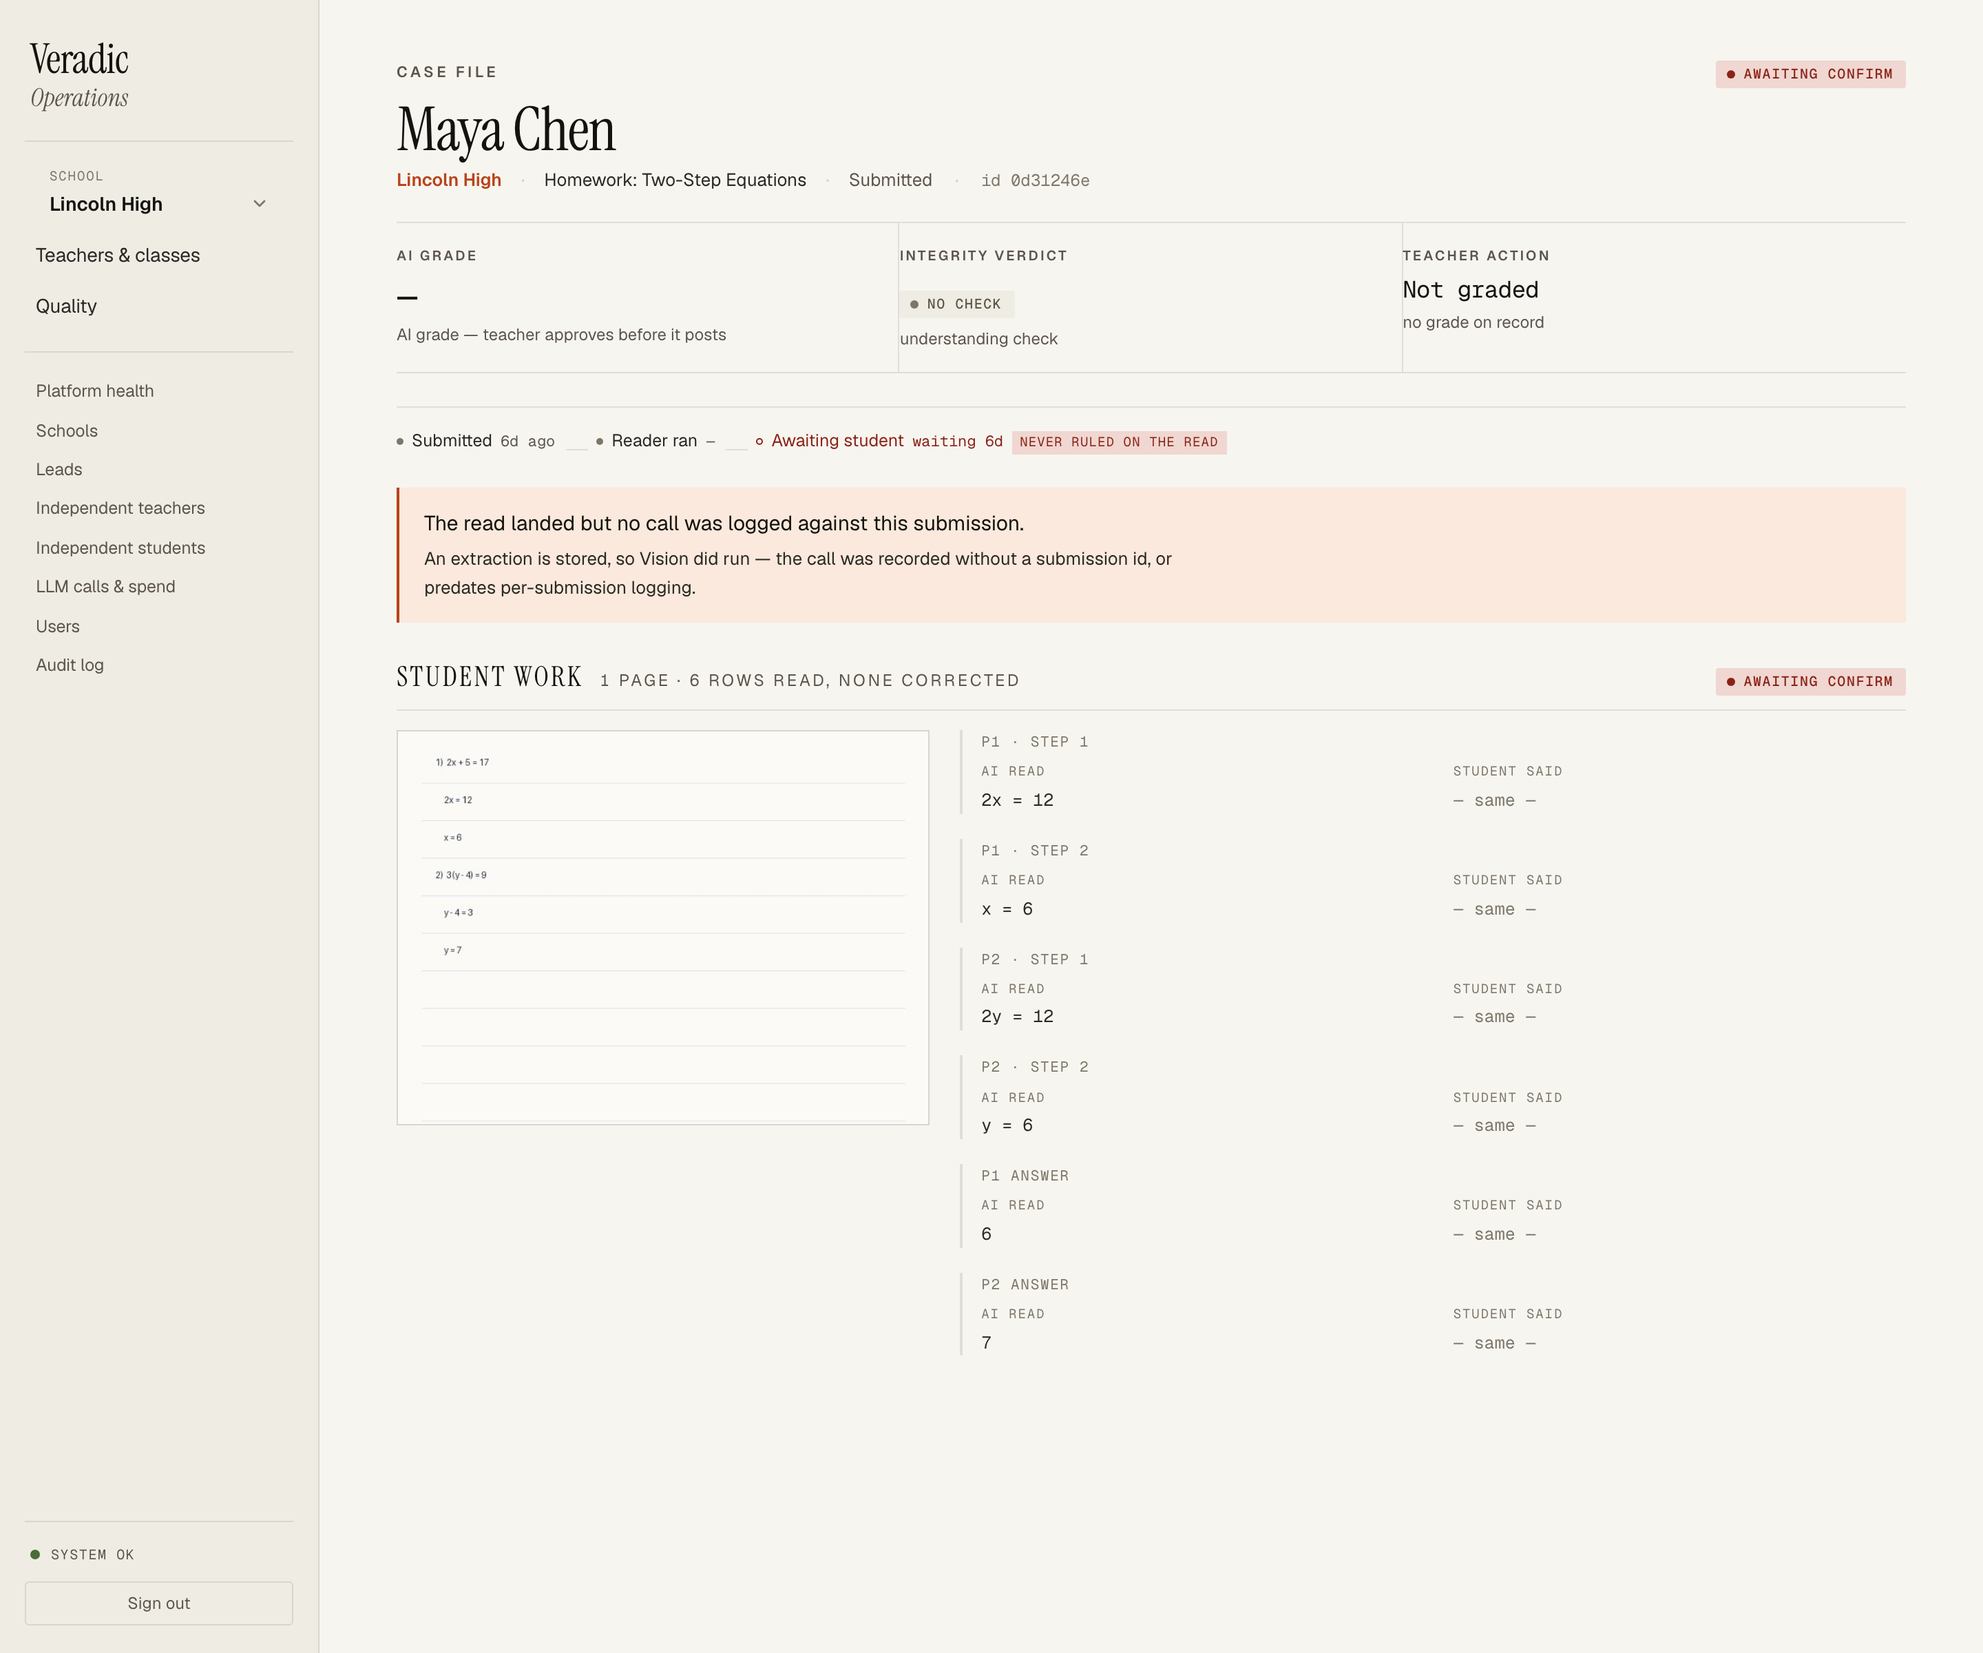
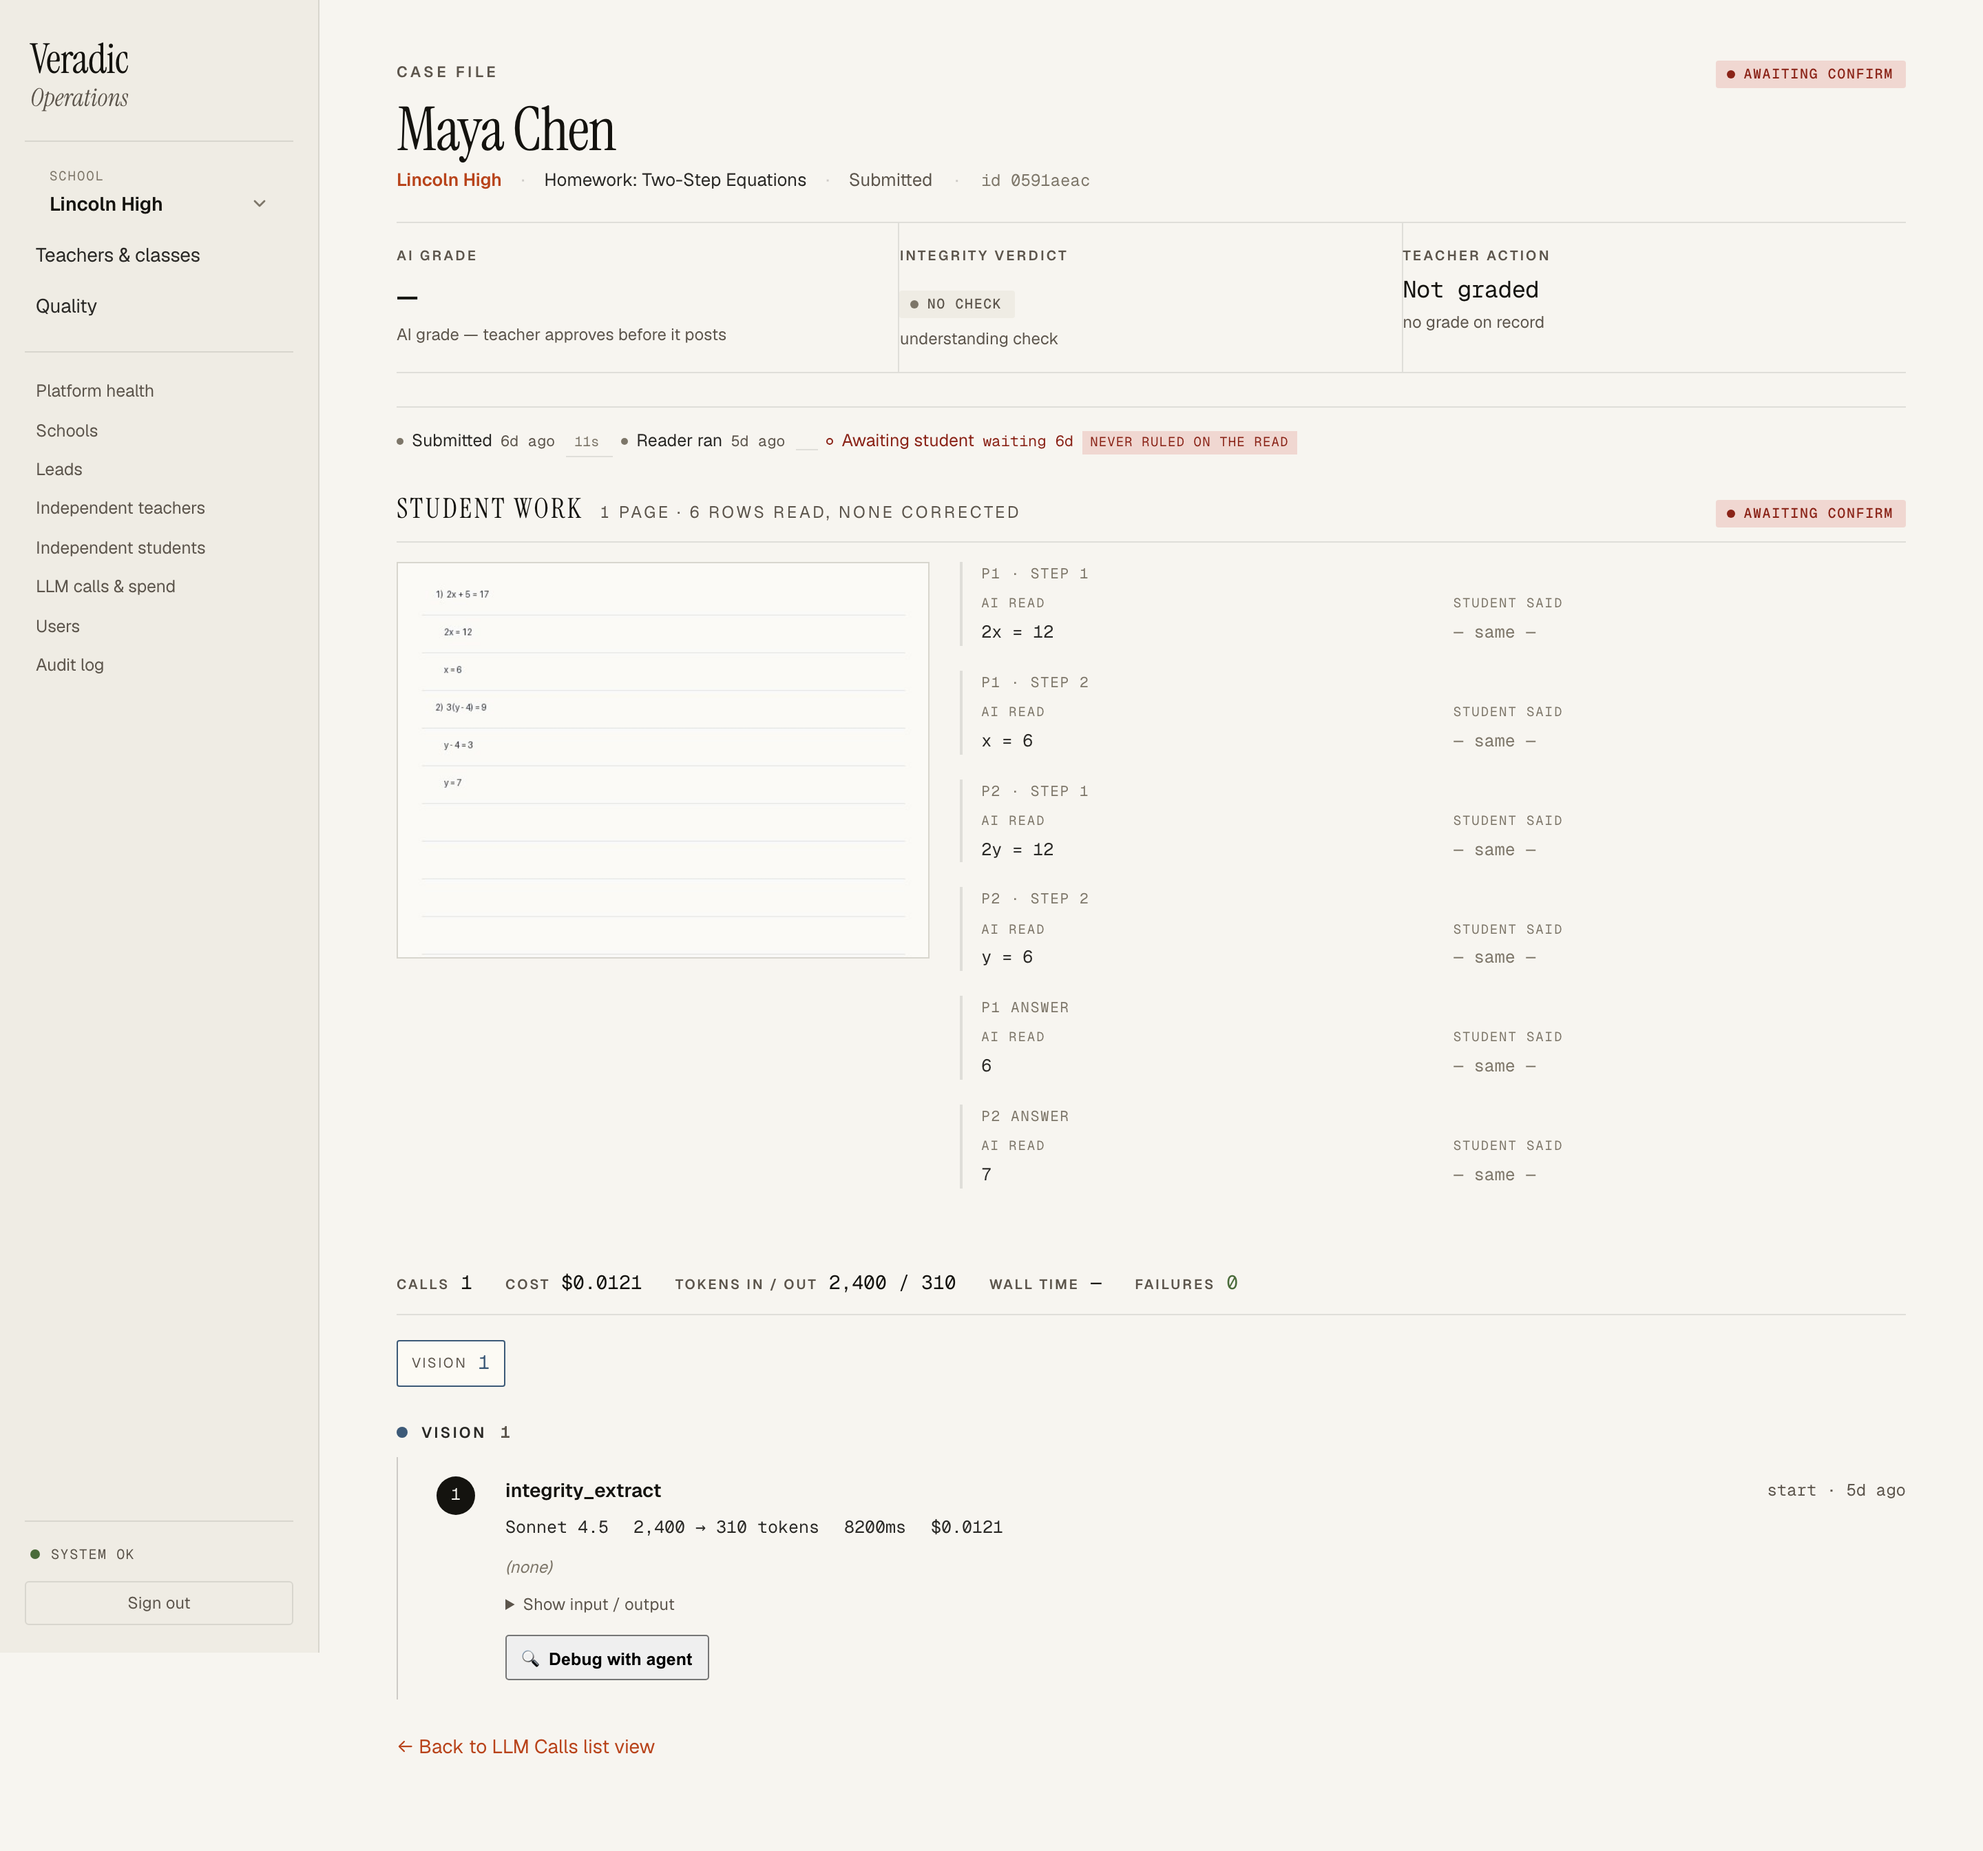
fix: the header verdict, and the fixture that hid it for five rounds
The green PASS was still reachable on the exact submission this feature
exists to surface, and the reason is worth writing down.

A stored extraction IMPLIES a logged call: `extract_student_work` logs
`integrity_extract` with the submission_id, and its return value is
what the pipeline persists. So every real `awaiting_confirm` submission
— read landed, student never ruled — has calls, `failures === 0`, and
rendered a green PASS as the loudest element on the page while the
stage pill 300px below read AWAITING CONFIRM in red.

Gating the stage pill on `!hasCalls` last round did not fix that. It
narrowed it to a state production cannot reach, and the only reason the
screenshots looked right is that the fixture WAS that unreachable
state: `stuck` was seeded with an extraction and no call. Five rounds
of visual verification were photographing something the product cannot
produce.

Two changes. The header pill now answers "where is this submission?"
rather than "did the calls succeed?" — the stage wins whenever the
record is loaded, and the run verdict is demoted to a pill beside it
that renders only when it carries information (a failure always does; a
clean run only when there is no stage). Failures stay visible in three
places: that pill, the economics strip, and the expanded failed rows.

And every seeded submission carrying an extraction now gets the call
that produced it, so the fixture models a state the pipeline can
[…]

diff --git a/dashboard/src/pages/SubmissionTrace.tsx b/dashboard/src/pages/SubmissionTrace.tsx
@@ -470,20 +470,28 @@ function CaseHeader({
     ? "Every logged call in this run succeeded"
     : `${failures} call${failures === 1 ? "" : "s"} in this run failed`;
 
-  // The pill used to read PASS whenever nothing failed — including when
-  // nothing ran. On a submission stuck six days with zero calls that is
-  // the most prominent thing on the page and it says the opposite of
-  // the truth: "no calls failed" is not "this submission is fine". With
-  // no calls to judge, show where the submission actually stopped.
+  // The header pill answers "where is this submission?", NOT "did the
+  // model calls succeed?".
   //
-  // And when there are no calls AND no record loaded, show NOTHING. An
-  // earlier guard fell through to PASS in that case, so the heavy
-  // submission fetch being slow painted a green PASS over a stalled
-  // submission for the length of the round trip — and painted it
-  // permanently if that fetch failed, directly above a body reading
-  // "the submission record couldn't be loaded". A verdict is a claim;
-  // with neither the calls nor the record there is nothing to claim.
-  const stagePill = !hasCalls && work ? STAGE_META[work.stage] : null;
+  // Those are different questions and this pill kept answering the
+  // wrong one. "No call failed" is not "this submission is fine": a
+  // submission stuck six days at read-landed-never-confirmed has a
+  // perfectly healthy Vision call behind it, so a run verdict renders
+  // a green PASS as the loudest element on the page while the stage
+  // pill lower down reads AWAITING CONFIRM in red.
+  //
+  // Gating the stage on `!hasCalls` did not fix that, it just moved it:
+  // a stored extraction IMPLIES a logged call, because
+  // `extract_student_work` logs `integrity_extract` with this
+  // submission_id and that call is what produced the read. So every
+  // real awaiting_confirm submission has calls, and only a fixture that
+  // seeds an extraction without one — which production cannot reach —
+  // ever took the stage branch.
+  //
+  // So: the stage wins whenever the record is loaded. Call failures are
+  // not hidden — they get their own pill beside it, and the economics
+  // strip and the timeline both surface them.
+  const stagePill = work ? STAGE_META[work.stage] : null;
 
   return (
     <div className="case-file">
@@ -524,19 +532,28 @@ function CaseHeader({
             )}
           </div>
         </div>
-        {hasCalls ? (
-          <StatusPill
-            tone={runPassed ? "ok" : "danger"}
-            label={runPassed ? "PASS" : "FAILED"}
-            title={runTitle}
-          />
-        ) : stagePill ? (
-          <StatusPill
-            tone={stagePill.tone}
-            label={stagePill.label}
-            title={stagePill.blurb}
-          />
-        ) : null}
+        <div className="case-head-pills">
+          {stagePill && (
+            <StatusPill
+              tone={stagePill.tone}
+              label={stagePill.label}
+              title={stagePill.blurb}
+            />
+          )}
+          {/* The run verdict, demoted beside the stage. Only rendered
+              when it carries information: a failure always does, and a
+              clean run does only when there is no stage to show. */}
+          {hasCalls && !runPassed && (
+            <StatusPill
+              tone="danger"
+              label={`${failures} CALL${failures === 1 ? "" : "S"} FAILED`}
+              title={runTitle}
+            />
+          )}
+          {hasCalls && runPassed && !stagePill && (
+            <StatusPill tone="ok" label="PASS" title={runTitle} />
+          )}
+        </div>
       </div>
 
       {summary && <DecisionStrip summary={summary} />}

diff --git a/dashboard/src/index.css b/dashboard/src/index.css
@@ -595,6 +595,16 @@ h3 {
 
 .case-file { margin-bottom: 24px; }
 
+/* Stage first, then the run verdict beside it when it adds something.
+   Wraps rather than squeezing the header on a narrow viewport. */
+.case-head-pills {
+  display: flex;
+  flex-wrap: wrap;
+  justify-content: flex-end;
+  gap: 6px;
+  flex: none;
+}
+
 .case-head {
   display: flex;
   justify-content: space-between;

diff --git a/scripts/seed_student_case_file.py b/scripts/seed_student_case_file.py
@@ -214,7 +214,7 @@ async def seed() -> dict[str, str]:
             extraction_confirmed_at=NOW - timedelta(days=3),
         )
         # Student rejected the read outright — teacher grades by hand.
-        sub(
+        flagged = sub(
             await hw("Word Problems"), 4,
             extraction=read_for(),
             extraction_flagged_at=NOW - timedelta(days=4),
@@ -242,25 +242,34 @@ async def seed() -> dict[str, str]:
             status="queued", attempts=0,
         ))
 
-        # The read that produced `done`'s extraction, so the healthy
-        # trace has a real Vision call to date its "Reader ran" hop from
-        # and the strip can be checked against a populated timeline.
+        # The read that produced each stored extraction.
         #
-        # The mode is INTEGRITY_EXTRACT: that is what
-        # `extract_student_work` logs, and it is the ONLY vision mode
-        # carrying a submission_id. Seeding IMAGE_EXTRACT here would
-        # reproduce the bug it is meant to catch — the strip would say
-        # "Reader ran —" with the call sitting right below it.
-        s.add(LLMCall(
-            user_id=student.id,
-            submission_id=done.id,
-            function=LLMMode.INTEGRITY_EXTRACT,
-            model="claude-sonnet-4-5",
-            input_tokens=2400, output_tokens=310,
-            latency_ms=8200.0, cost_usd=0.0121,
-            success=True, retry_count=0,
-            created_at=NOW - timedelta(days=12) + timedelta(seconds=11),
-        ))
+        # EVERY submission carrying an `extraction` gets one, because a
+        # stored read implies the call that produced it:
+        # `extract_student_work` logs INTEGRITY_EXTRACT with the
+        # submission_id and returns the value the pipeline persists. A
+        # fixture with an extraction and no call is a state production
+        # cannot reach — and seeding only the happy path that way hid a
+        # header bug through five review rounds of screenshots, because
+        # the stalled submission being photographed had no calls and so
+        # took a branch real data never takes.
+        #
+        # The mode is INTEGRITY_EXTRACT, not IMAGE_EXTRACT: that is what
+        # the pipeline logs, and it is the only vision mode carrying a
+        # submission_id.
+        for target, days in (
+            (stuck, 6), (done, 12), (graded, 8), (repaired, 3), (flagged, 4),
+        ):
+            s.add(LLMCall(
+                user_id=student.id,
+                submission_id=target.id,
+                function=LLMMode.INTEGRITY_EXTRACT,
+                model="claude-sonnet-4-5",
+                input_tokens=2400, output_tokens=310,
+                latency_ms=8200.0, cost_usd=0.0121,
+                success=True, retry_count=0,
+                created_at=NOW - timedelta(days=days) + timedelta(seconds=11),
+            ))
         await s.commit()
 
         return {
